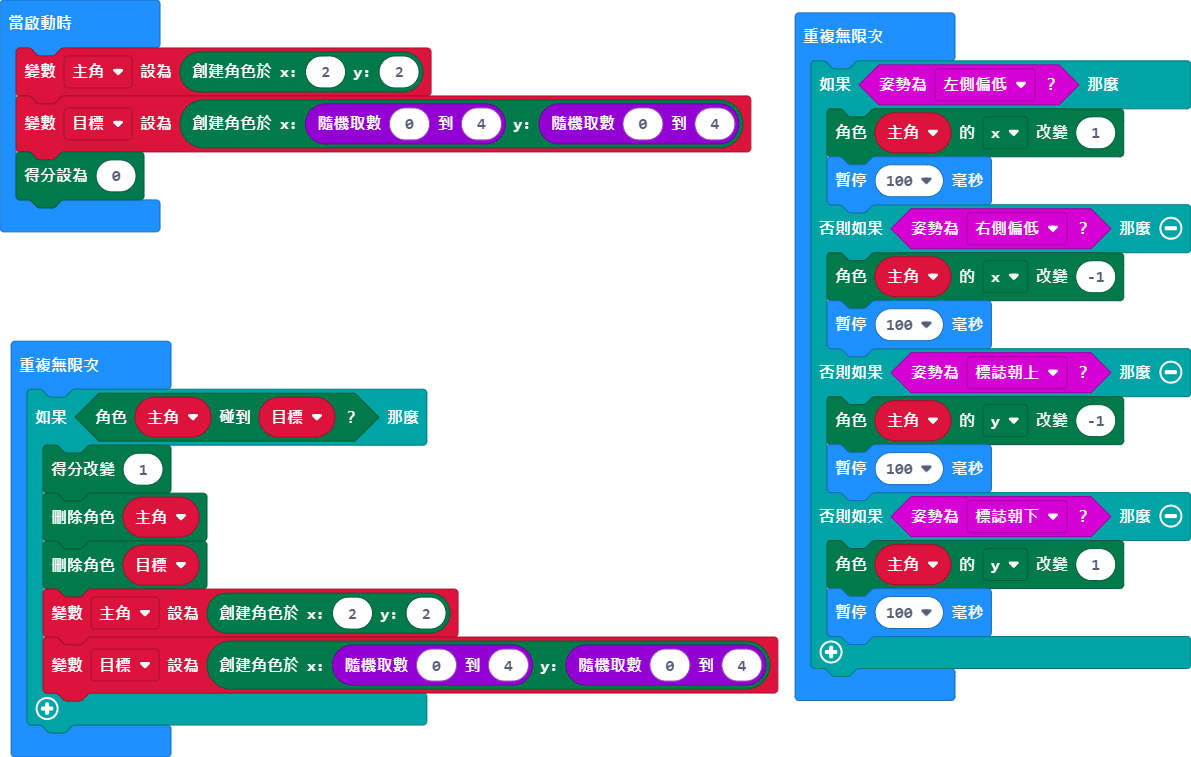
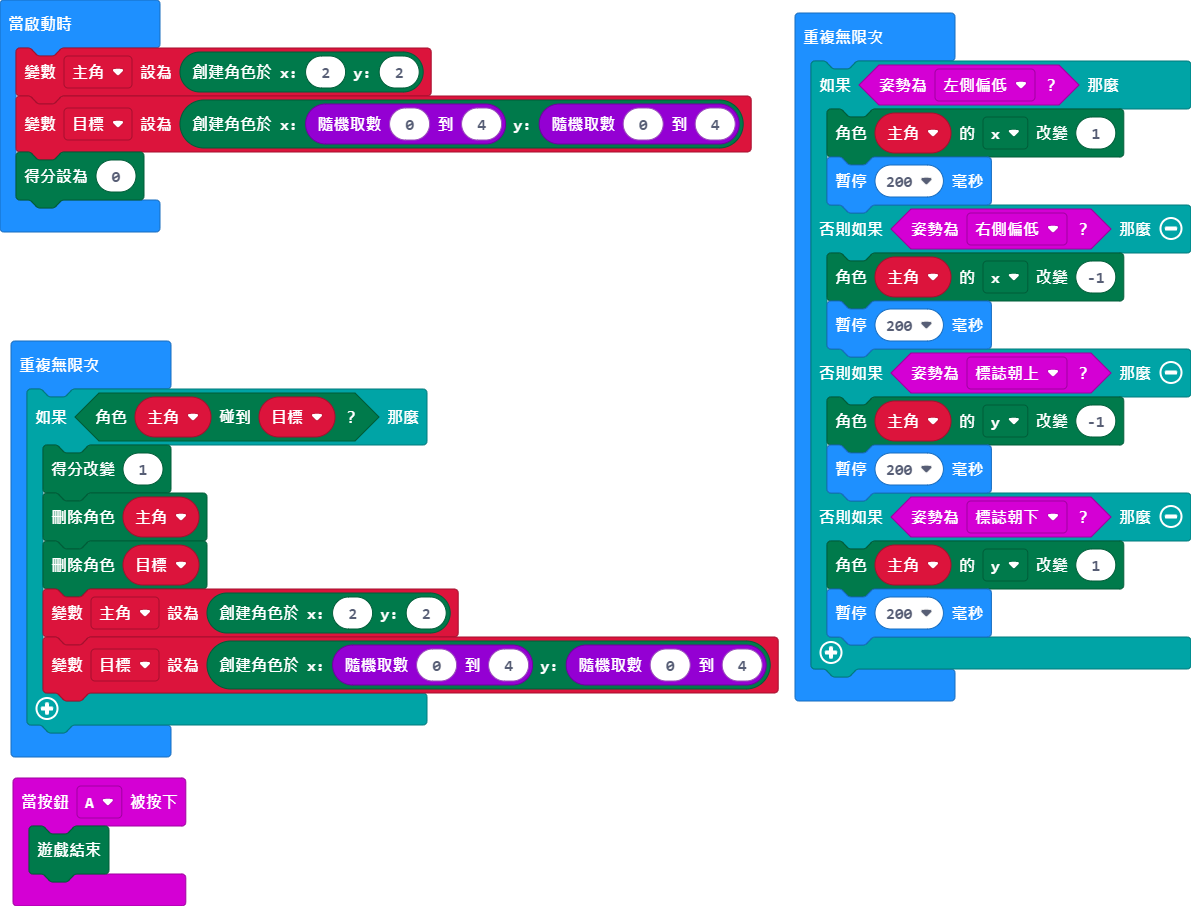
更新 main.blocks, main.ts

diff --git a/main.ts b/main.ts
@@ -1,19 +1,22 @@
+input.onButtonPressed(Button.A, function () {
+    game.gameOver()
+})
 let 主角 = game.createSprite(2, 2)
 let 目標 = game.createSprite(randint(0, 4), randint(0, 4))
 game.setScore(0)
 basic.forever(function () {
     if (input.isGesture(Gesture.TiltLeft)) {
         主角.change(LedSpriteProperty.X, 1)
-        basic.pause(100)
+        basic.pause(200)
     } else if (input.isGesture(Gesture.TiltRight)) {
         主角.change(LedSpriteProperty.X, -1)
-        basic.pause(100)
+        basic.pause(200)
     } else if (input.isGesture(Gesture.LogoUp)) {
         主角.change(LedSpriteProperty.Y, -1)
-        basic.pause(100)
+        basic.pause(200)
     } else if (input.isGesture(Gesture.LogoDown)) {
         主角.change(LedSpriteProperty.Y, 1)
-        basic.pause(100)
+        basic.pause(200)
     }
 })
 basic.forever(function () {
